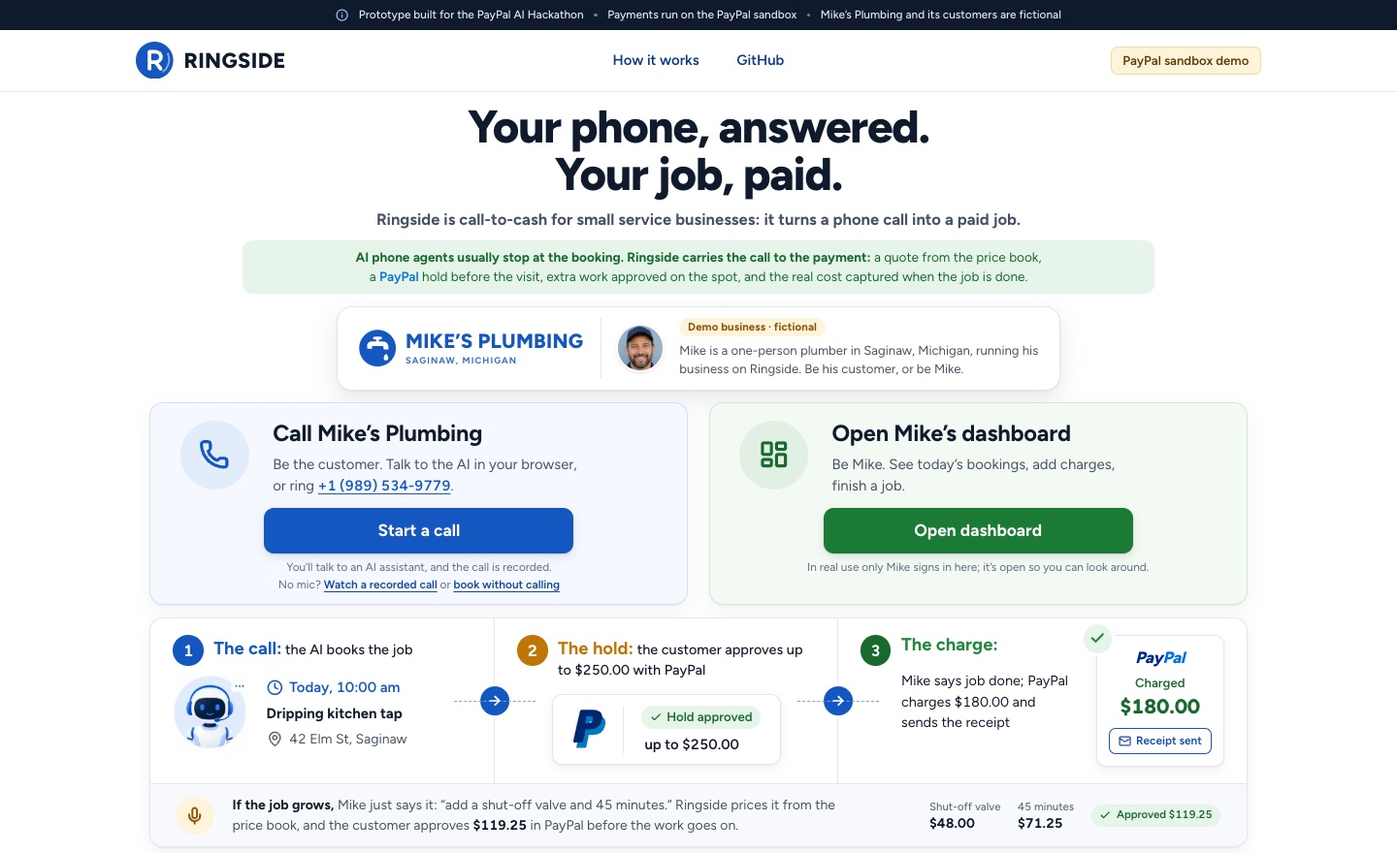
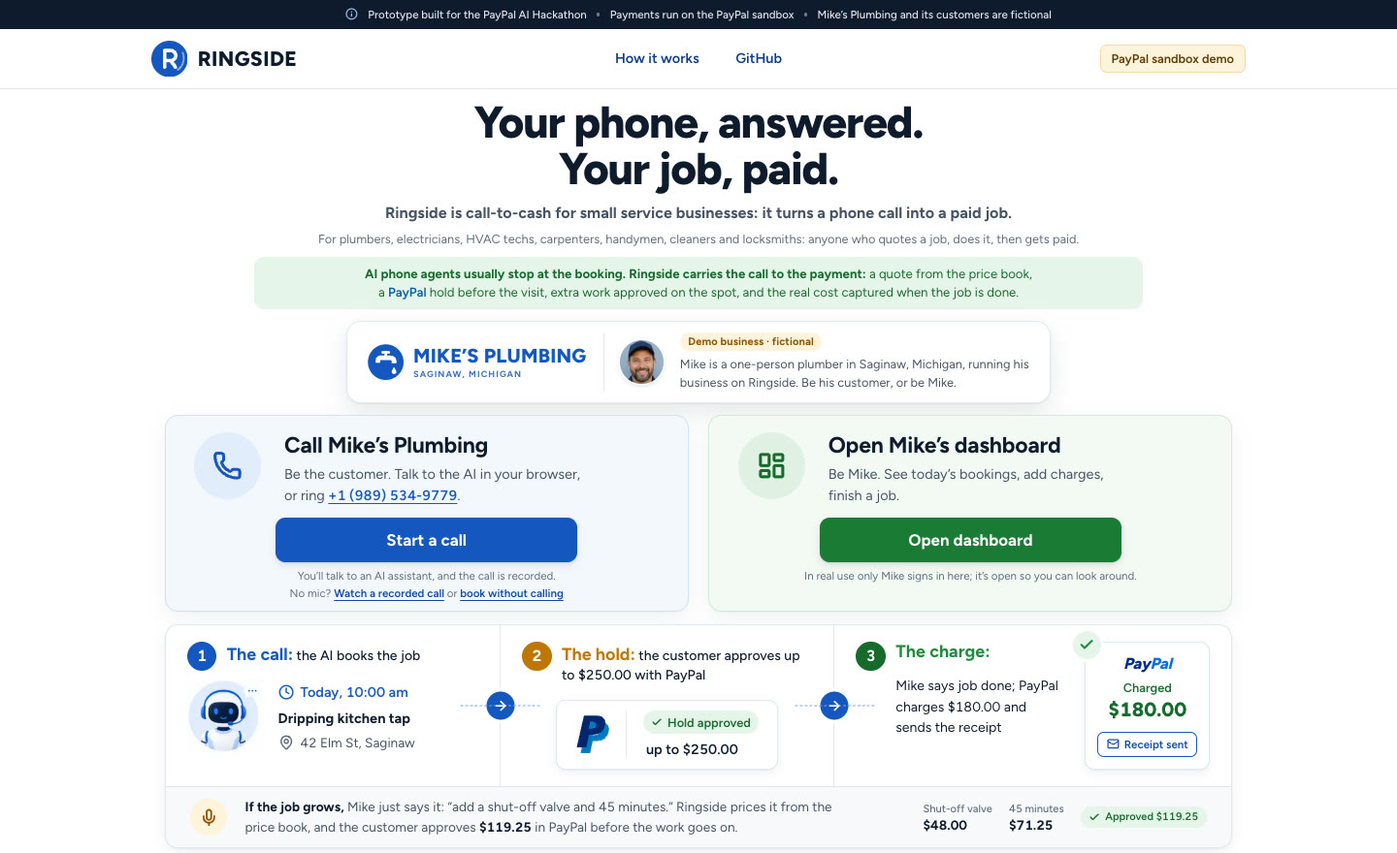
README: the demo video, the new architecture and the agent's authentication
A Watch the demo button and a Watch it section (YouTube), the architecture redrawn
as one customer with three routes in (phone through Twilio, a browser call, booking
without calling), the agent requiring authentication with tool calls carrying a
secret, the filmed end-to-end job in Real runs, and a fresh landing screenshot with
the trades Ringside serves.

diff --git a/assets/src/architecture.html b/assets/src/architecture.html
@@ -1,148 +1,103 @@
 <!doctype html>
-<html>
-<head>
-<meta charset="utf-8">
-<link rel="preconnect" href="https://fonts.googleapis.com">
-<link href="https://fonts.googleapis.com/css2?family=Figtree:wght@500;600;700;800&display=swap" rel="stylesheet">
+<html><head><meta charset="utf-8"><title>Ringside architecture</title>
+<!-- Source of assets/architecture.png. Render: headless Chrome at 1920x1080 (see README). -->
+<link rel="stylesheet" href="https://fonts.googleapis.com/css2?family=Figtree:wght@500;600;700;800&display=block">
 <style>
-  * { box-sizing: border-box; margin: 0; }
-  body { width: 1600px; height: 960px; background: #f2f5f9; color: #0f1b2d; font-family: "Figtree", system-ui, sans-serif; position: relative; overflow: hidden; }
-  h1 { position: absolute; left: 40px; top: 26px; font-size: 34px; font-weight: 800; letter-spacing: -0.02em; }
-  h1 span { color: #1557c0; }
-  .money { position: absolute; left: 40px; top: 74px; display: flex; gap: 10px; align-items: center; font-size: 16px; font-weight: 700; color: #465264; }
-  .money b { padding: 4px 12px; border-radius: 999px; background: #e6f4ea; color: #17692d; font-weight: 700; }
-  .money i { font-style: normal; color: #9aa6b6; }
-  .box { position: absolute; padding: 14px 16px; border-radius: 16px; background: #fff; border: 1px solid #e2e7ee; box-shadow: 0 1px 2px rgba(16,24,40,.05), 0 6px 16px rgba(16,24,40,.07); }
-  .box h2 { font-size: 18px; font-weight: 800; line-height: 1.2; }
-  .box p { margin-top: 4px; font-size: 13.5px; line-height: 1.4; color: #465264; }
-  .box .tag { display: inline-block; margin-top: 6px; padding: 2px 8px; border-radius: 6px; font-size: 12px; font-weight: 700; }
-  .person { background: #fff; border-color: #cfdcf3; }
-  .person h2 { color: #0b3a8a; }
-  .voice { border-color: #d7d0f5; }
-  .voice .tag { background: #efeafc; color: #4b2fa8; }
-  .app { background: linear-gradient(180deg, #0b3a8a, #1557c0); color: #fff; border: 0; }
-  .app h2 { color: #fff; font-size: 22px; }
-  .app > p { color: rgba(255,255,255,.85); }
-  .chips { display: grid; grid-template-columns: 1fr 1fr; gap: 8px; margin-top: 12px; }
-  .chip { padding: 9px 11px; border-radius: 11px; background: rgba(255,255,255,.12); border: 1px solid rgba(255,255,255,.22); font-size: 13.5px; line-height: 1.3; font-weight: 600; }
-  .chip small { display: block; font-weight: 500; opacity: .82; font-size: 12px; }
-  .paypal { border: 2px solid #1557c0; }
-  .paypal h2 { color: #003087; }
-  .paypal ul { margin: 8px 0 0; padding-left: 18px; font-size: 13.5px; line-height: 1.55; color: #0f1b2d; }
-  .paypal ul small { color: #465264; }
-  .claude .tag { background: #f6e9e1; color: #8a4a26; }
-  .infra { background: #fff; }
-  .infra .tag { background: #e9f0fc; color: #0f47a8; }
-  svg { position: absolute; inset: 0; width: 1600px; height: 960px; pointer-events: none; }
-  .lbl { position: absolute; font-size: 12px; font-weight: 700; color: #5f6b7c; background: #f2f5f9; padding: 1px 6px; border-radius: 6px; }
-</style>
-</head>
+  * { box-sizing: border-box; margin: 0; padding: 0; }
+  html, body { width: 1920px; height: 1080px; overflow: hidden; background: #071a3d; font-family: "Figtree", sans-serif; color: #fff; }
+  #ground { position: absolute; inset: 0; background: radial-gradient(1300px 900px at 50% 48%, #11377f 0%, #0c2a63 48%, #071a3d 100%); }
+  #title { position: absolute; left: 0; right: 0; top: 110px; text-align: center; font-size: 24px; font-weight: 800; letter-spacing: .16em; color: #a9c1ee; }
+  .node { position: absolute; width: 220px; height: 190px; border-radius: 26px; background: #fff; color: #0f1b2d; display: flex; flex-direction: column;
+    align-items: center; justify-content: center; gap: 10px; box-shadow: 0 30px 70px rgba(0,0,0,.38); transform-origin: 50% 50%; }
+  .node img, .node svg { width: 76px; height: 76px; }
+  .node b { font-size: 32px; font-weight: 800; } .node small { font-size: 18px; color: #4f5968; font-weight: 600; text-align: center; padding: 0 12px; }
+  svg#wires { position: absolute; inset: 0; }
+  .lbl { font: 700 18px "Figtree", sans-serif; letter-spacing: .02em; }
+  #sdk { position: absolute; left: 1320px; top: 312px; transform: translateX(-50%); display: flex; align-items: center; gap: 8px; padding: 6px 14px; border-radius: 999px;
+    background: rgba(255,255,255,.12); border: 1px solid rgba(255,255,255,.22); font-size: 18px; font-weight: 700; color: #dbe6fb; white-space: nowrap; }
+  #sdk img { width: 18px; height: 18px; filter: brightness(0) invert(1); }
+  #inside { position: absolute; left: 130px; top: 790px; display: flex; flex-wrap: wrap; align-items: center; gap: 12px; width: 980px; }
+  #inside span { font-size: 18px; font-weight: 800; letter-spacing: .14em; text-transform: uppercase; color: #a9c1ee; margin-right: 6px; }
+  #inside i { display: flex; align-items: center; gap: 8px; padding: 7px 14px; border-radius: 999px; background: rgba(255,255,255,.1); border: 1px solid rgba(255,255,255,.2);
+    font-style: normal; font-size: 18px; font-weight: 700; color: #e6eefc; white-space: nowrap; }
+  #inside img { width: 20px; height: 20px; object-fit: contain; }
+  #banner { position: absolute; left: 50%; bottom: 70px; transform: translateX(-50%); padding: 16px 36px; border-radius: 999px; background: #f2a93b; color: #2b1a00; font-size: 38px; font-weight: 800; white-space: nowrap; }
+</style></head>
 <body>
-  <h1>How <span>Ringside</span> works</h1>
-  <div class="money">The money moves four times, each after a person says yes:
-    <b>Hold at booking</b><i>→</i><b>Extra work approved</b><i>→</i><b>Real cost captured</b><i>→</i><b>Receipt</b>
-  </div>
-
-  <svg viewBox="0 0 1600 960">
-    <defs>
-      <marker id="a" viewBox="0 0 10 10" refX="9" refY="5" markerWidth="7" markerHeight="7" orient="auto-start-reverse"><path d="M0 0 10 5 0 10z" fill="#7d8aa0"/></marker>
-      <marker id="p" viewBox="0 0 10 10" refX="9" refY="5" markerWidth="7" markerHeight="7" orient="auto-start-reverse"><path d="M0 0 10 5 0 10z" fill="#1557c0"/></marker>
-    </defs>
-    <!-- Every connector is a straight run or a right-angle join; boxes are placed so lines meet them square-on. -->
-    <g fill="none" stroke="#7d8aa0" stroke-width="2" stroke-linejoin="round">
-      <path d="M270 205 H300 M300 170 V294"/>
-      <path d="M300 170 H330" marker-end="url(#a)"/>
-      <path d="M300 294 H330" marker-end="url(#a)"/>
-      <path d="M580 170 H610 M580 294 H610 M610 170 V294"/>
-      <path d="M610 232 H640" marker-end="url(#a)"/>
-      <path d="M840 282 V400" marker-start="url(#a)" marker-end="url(#a)"/>
-      <path d="M270 540 H640" marker-start="url(#a)" marker-end="url(#a)"/>
-      <path d="M270 725 H640" marker-start="url(#a)" marker-end="url(#a)"/>
-      <path d="M1220 682 H1270" marker-end="url(#a)"/>
-      <path d="M1220 806 H1270" marker-end="url(#a)"/>
-      <path d="M800 820 V850" marker-end="url(#a)"/>
-      <path d="M1090 820 V850" marker-end="url(#a)"/>
-    </g>
-    <g fill="none" stroke="#1557c0" stroke-width="3">
-      <path d="M1220 470 H1270" marker-start="url(#p)" marker-end="url(#p)"/>
-    </g>
-  </svg>
-
-  <div class="box person" style="left:40px; top:150px; width:230px; height:110px;">
-    <h2>Customer</h2>
-    <p>Calls the business with a problem: a dripping tap, a running toilet.</p>
-  </div>
-  <div class="box person" style="left:40px; top:470px; width:230px; height:140px;">
-    <h2>Customer’s phone</h2>
-    <p>Opens the job page from the email or a QR code and approves in PayPal.</p>
-  </div>
-  <div class="box person" style="left:40px; top:660px; width:230px; height:130px;">
-    <h2>The owner</h2>
-    <p>Mike’s dashboard on his phone (an installable app with notifications) and on his desk.</p>
-  </div>
-
-  <div class="box" style="left:330px; top:130px; width:250px; height:80px;">
-    <h2>Twilio number</h2>
-    <p>The business line, connected straight to the agent.</p>
-  </div>
-  <div class="box" style="left:330px; top:240px; width:250px; height:108px;">
-    <h2>Browser call</h2>
-    <p><code>/call</code> over WebRTC with <code>@elevenlabs/react</code>, or Book without calling.</p>
-  </div>
-
-  <div class="box voice" style="left:640px; top:130px; width:400px; height:152px;">
-    <h2>ElevenLabs Agent</h2>
-    <p>Speaks as the business’s AI assistant, says it is AI, quotes, books and sends the PayPal link only after a yes. Calls end at six minutes with a goodbye.</p>
-    <span class="tag">LLM GLM 5.2 · voice Chris</span>
-  </div>
-  <span class="lbl" style="left:852px; top:332px;">10 server tools (webhooks, shared secret)</span>
-  <span class="lbl" style="left:300px; top:516px;">job page: approves in PayPal</span>
-  <span class="lbl" style="left:300px; top:701px;">dashboard and phone alerts</span>
-
-  <div class="box app" style="left:640px; top:400px; width:580px; height:420px;">
-    <h2>Ringside on Render</h2>
-    <p>Next.js 16 · TypeScript · one demo session per visitor · integer cents · a job state machine</p>
-    <div class="chips">
-      <div class="chip">Agent tools<small>price book, service area, slots, quote, booking, hold link</small></div>
-      <div class="chip">Price book &amp; rate card<small>every price checked in code</small></div>
-      <div class="chip">Holds<small>authorize after the customer approves</small></div>
-      <div class="chip">Change orders<small>spoken or picked, a second payment</small></div>
-      <div class="chip">Job done<small>capture the real cost, never above the hold; cancel voids</small></div>
-      <div class="chip">Receipts &amp; close-out<small>PayPal invoice marked paid</small></div>
-      <div class="chip">Customer page <code>/j/&lt;code&gt;</code><small>PayPal buttons, test card for judges</small></div>
-      <div class="chip">Mike’s app &amp; Books<small>installable dashboard; AG Studio + Ask your books</small></div>
-    </div>
-  </div>
-
-  <div class="box infra" style="left:660px; top:850px; width:280px; padding:10px 14px;">
-    <h2 style="font-size:16px;">Render Postgres</h2>
-    <p>Jobs, calls, payments, events</p>
-  </div>
-  <div class="box infra" style="left:960px; top:850px; width:260px; padding:10px 14px;">
-    <h2 style="font-size:16px;">Render Workflows</h2>
-    <p>Close-out, safe to replay</p>
-  </div>
-
-  <div class="box paypal" style="left:1270px; top:360px; width:290px;">
-    <h2>PayPal (sandbox)</h2>
-    <ul>
-      <li>Orders v2: <b>AUTHORIZE</b> hold, <b>CAPTURE</b> extra work <small>(server SDK by APIMatic)</small></li>
-      <li>Payments v2: capture the hold, void</li>
-      <li>Invoicing v2: the receipt</li>
-      <li>Webhooks, verified</li>
-      <li>JS SDK buttons + guest card</li>
-    </ul>
-    <span class="tag" style="background:#e9f0fc;color:#0f47a8;">PayPal-Request-Id on every POST</span>
-  </div>
-
-  <div class="box claude" style="left:1270px; top:612px; width:290px;">
-    <h2>Claude (Anthropic API)</h2>
-    <p><b>Sonnet 5.5</b>: the owner’s spoken extra work → priced lines.<br><b>Haiku 5.5</b>: Ask your books; a described problem → a price-book job.</p>
-    <span class="tag">structured output · prices from the book</span>
-  </div>
-  <div class="box infra" style="left:1270px; top:782px; width:290px; padding:10px 14px;">
-    <h2 style="font-size:16px;">Resend · Web push</h2>
-    <p>Emails the customer at each step; buzzes Mike’s phone</p>
-  </div>
-</body>
-</html>
+<div id="ground"></div>
+<div id="title">HOW IT WORKS</div>
+<svg id="wires" viewBox="0 0 1920 1080"><defs id="defs"></defs><g id="edges"></g></svg>
+<div id="nodes"></div>
+<div id="sdk"><img src="../logos/paypal.svg">PayPal server SDK · APIMatic</div>
+<div id="inside"><span>Inside Ringside</span><i><img src="../logos/claude.svg">Claude · prices extra work, matches web bookings</i><i><img src="../logos/aggrid.png">AG Grid · Mike’s books</i><i>Postgres · Resend email</i></div>
+<div id="banner">No money moves without a person saying yes</div>
+<script>
+const MARK = `<svg viewBox="0 0 48 48" fill="none"><circle cx="24" cy="24" r="24" fill="#1557c0"/><path d="M41.2 15.5a19 19 0 0 1-6.4 23.1" stroke="#fff" stroke-opacity="0.5" stroke-width="2.4" stroke-linecap="round"/><path d="M17.5 35V13h8.2a6.6 6.6 0 0 1 0 13.2h-8.2M25.4 26.2 32 35" stroke="#fff" stroke-width="4.6" stroke-linecap="round" stroke-linejoin="round"/></svg>`;
+const PERSON = `<svg viewBox="0 0 24 24" fill="none" stroke="#1557c0" stroke-width="2" stroke-linecap="round"><circle cx="12" cy="8" r="4"/><path d="M4 21c0-4.4 3.6-7 8-7s8 2.6 8 7"/></svg>`;
+const BROWSER = `<svg viewBox="0 0 24 24" fill="none" stroke="#1557c0" stroke-width="2" stroke-linecap="round"><rect x="2.5" y="4" width="19" height="16" rx="2.5"/><path d="M2.5 9h19M6 6.6h.01M8.5 6.6h.01"/></svg>`;
+const PHONE = `<svg viewBox="0 0 24 24" fill="none" stroke="#1557c0" stroke-width="2"><rect x="6" y="2" width="12" height="20" rx="3"/><circle cx="12" cy="18" r="1"/></svg>`;
+// cards in one row, evenly spaced (220 wide, 140 apart), Render below Ringside. [id, x, y, icon, name, sub, appears at (s)]
+const NODES = [
+  ["caller", 130, 360, PERSON, "Customer", "phone or browser", 0.8],
+  ["twilio", 490, 360, `<img src="../logos/twilio.svg">`, "Twilio", "the phone number", 2.4],
+  ["eleven", 850, 360, `<img src="../logos/elevenlabs.svg">`, "ElevenLabs", "voice agent", 3.9],
+  ["ringside", 1210, 360, MARK, "Ringside", "tools · rate card", 7.6],
+  ["paypal", 1570, 360, `<img src="../logos/paypal.svg">`, "PayPal", "hold · capture", 10.8],
+  ["render", 1210, 700, `<img src="../logos/render.svg">`, "Render", "workflow · receipt", 15.5],
+];
+// dotted connectors that draw themselves in: [path, colour, label, label x, label y, starts drawing (s), takes (s)]
+const EDGES = [
+  ["M362 455 L478 455", "#8fb6ff", "phone", 420, 432, 1.4, 1.0],
+  ["M722 455 L838 455", "#8fb6ff", "", 0, 0, 3.0, 0.9],
+  ["M300 562 L300 640 L960 640 L960 562", "#8fb6ff", "browser call", 630, 623, 3.1, 1.3],
+  ["M180 562 L180 720 L1150 720 L1150 505 L1198 505", "#c9b8ff", "book without calling", 660, 703, 6.8, 1.6],
+  ["M1082 455 L1198 455", "#8fb6ff", "tool calls", 1140, 432, 8.4, 1.0],
+  ["M1442 430 L1558 430", "#8fb6ff", "orders", 1500, 407, 10.3, 1.0],
+  ["M1558 482 L1442 482", "#f2a93b", "webhooks", 1500, 514, 13.3, 1.0],
+  ["M1320 562 L1320 688", "#8fb6ff", "close-out", 1384, 630, 14.9, 1.0],
+  ["M1442 795 C1690 795 1690 680 1690 562", "#3fbf6a", "capture · receipt", 1580, 838, 16.3, 1.4],
+];
+window.duration = 21.6;
+const $ = (id) => document.getElementById(id);
+const clamp = (x) => Math.max(0, Math.min(1, x));
+const ease = (x) => { x = clamp(x); return x < .5 ? 4 * x * x * x : 1 - Math.pow(-2 * x + 2, 3) / 2; };
+const ramp = (t, a, d) => ease((t - a) / d);
+const NS = "http://www.w3.org/2000/svg";
+const nodes = NODES.map(([id, x, y, icon, name, sub, at]) => {
+  const el = document.createElement("div"); el.className = "node"; el.style.left = x + "px"; el.style.top = y + "px";
+  el.innerHTML = `${icon}<b>${name}</b><small>${sub}</small>`; $("nodes").appendChild(el); return [el, at];
+});
+const mk = (tag, attrs, parent) => { const e = document.createElementNS(NS, tag); for (const k in attrs) e.setAttribute(k, attrs[k]); parent.appendChild(e); return e; };
+const edges = EDGES.map(([d, col, label, lx, ly, at, dur], i) => {
+  // the reveal: a solid copy of the path, drawn with a dash offset, used as a mask over the dotted line
+  const m = mk("mask", { id: `m${i}`, maskUnits: "userSpaceOnUse", x: 0, y: 0, width: 1920, height: 1080 }, $("defs"));
+  const rev = mk("path", { d, fill: "none", stroke: "#fff", "stroke-width": 16, "stroke-linecap": "round" }, m);
+  const len = rev.getTotalLength(); rev.style.strokeDasharray = `${len} ${len}`;
+  const dotted = mk("path", { d, fill: "none", stroke: col, "stroke-width": 5, "stroke-linecap": "round", "stroke-dasharray": "0.1 13", mask: `url(#m${i})` }, $("edges"));
+  // the arrowhead, placed at the end along the path's direction
+  const a = rev.getPointAtLength(len), b = rev.getPointAtLength(len - 6), ang = Math.atan2(a.y - b.y, a.x - b.x) * 180 / Math.PI;
+  const head = mk("path", { d: "M-2 -9 L12 0 L-2 9 Z", fill: col, transform: `translate(${a.x} ${a.y}) rotate(${ang})` }, $("edges"));
+  const tx = label ? mk("text", { class: "lbl", x: lx, y: ly, "text-anchor": "middle", fill: col === "#f2a93b" ? "#f2c27b" : col === "#c9b8ff" ? "#ddd2ff" : "#cddcf8" }, $("edges")) : null;
+  if (tx) tx.textContent = label;
+  return { rev, dotted, head, tx, len, at, dur };
+});
+window.ready = Promise.all([document.fonts.ready, ...[...document.images].map((im) => im.decode().catch(() => {}))]);
+window.seek = (t) => {
+  $("title").style.opacity = ramp(t, 0.2, 0.6);
+  nodes.forEach(([el, at]) => { const p = ramp(t, at, 0.6); el.style.opacity = p; el.style.transform = `translateY(${(1 - p) * 14}px) scale(${0.94 + 0.06 * p})`; });
+  edges.forEach(({ rev, dotted, head, tx, len, at, dur }) => {
+    const draw = ramp(t, at, dur);
+    rev.style.strokeDashoffset = len * (1 - draw);
+    dotted.style.opacity = draw > 0 ? 1 : 0;
+    dotted.style.strokeDashoffset = -((t - at) * 22);   // the dots keep drifting forward once drawn
+    const h = ramp(t, at + dur - 0.15, 0.3); head.style.opacity = h;
+    if (tx) tx.style.opacity = ramp(t, at + dur * 0.5, 0.5);
+  });
+  $("sdk").style.opacity = ramp(t, 11.2, 0.6);
+  $("inside").style.opacity = ramp(t, 9.0, 0.6);
+  const b = ramp(t, 18.3, 0.6); $("banner").style.opacity = b; $("banner").style.transform = `translate(-50%, ${(1 - b) * 18}px)`;
+};
+window.sheetTimes = [{ t: 2.2, label: "drawing" }, { t: 4.6, label: "agent" }, { t: 9.6, label: "PayPal" }, { t: 12.2, label: "webhooks" }, { t: 15.8, label: "capture" }, { t: 19.5, label: "rule" }];
+// README still: the diagram's finished state (the same page animates in the demo video)
+window.ready.then(() => window.seek(30));
+</script></body></html>

diff --git a/README.md b/README.md
@@ -4,6 +4,7 @@
 
 # Ringside
 
+[![Watch the demo](https://img.shields.io/badge/Watch_the_demo-2%3A59-c8281c?style=for-the-badge&logo=youtube&logoColor=white)](https://youtu.be/DsTQNwpYstY)
 [![Live demo](https://img.shields.io/badge/Live_demo-ringside--4bup.onrender.com-1557c0?style=for-the-badge&logo=render&logoColor=white)](https://ringside-4bup.onrender.com)
 [![Call Mike's Plumbing](https://img.shields.io/badge/Try_it-call_in_the_browser-1f8a3b?style=for-the-badge&logo=googlechrome&logoColor=white)](https://ringside-4bup.onrender.com/call)
 [![Mike's dashboard](https://img.shields.io/badge/Open-Mike's_dashboard-0b3a8a?style=for-the-badge&logo=googlehome&logoColor=white)](https://ringside-4bup.onrender.com/dashboard)
@@ -88,12 +89,19 @@ real cost when the work is done.
 Michigan. Its customers, jobs and calls are fictional too. Ringside is a prototype built for the PayPal AI Hackathon and
 runs on the PayPal sandbox.
 
-<img src="assets/screens/landing.jpg" width="100%" alt="Ringside's landing page: 'Ringside is call-to-cash for small service businesses: it turns a phone call into a paid job', how it differs from AI phone agents that stop at the booking, then the demo business, Mike's Plumbing, with two doors: call it as a customer, or open the owner's dashboard; below, the call, the hold, the charge and the change order on one job">
+<img src="assets/screens/landing.jpg" width="100%" alt="Ringside's landing page: 'Ringside is call-to-cash for small service businesses: it turns a phone call into a paid job', the trades it serves (plumbers, electricians, HVAC techs, carpenters, handymen, cleaners and locksmiths), how it differs from AI phone agents that stop at the booking, then the demo business, Mike's Plumbing, with two doors: call it as a customer, or open the owner's dashboard; below, the call, the hold, the charge and the change order on one job">
 
 **For the judges:** open the [live demo](https://ringside-4bup.onrender.com) and try Ringside as the demo business's
 customer: call Mike's Plumbing in the browser or on **[+1 (989) 534-9779](tel:+19895349779)**, then approve the hold with
 PayPal's sandbox test card `4032 0304 2122 9932` (expiry 05/27, CVC 379; no PayPal account needed). Then open the
 owner's dashboard to add charges and finish the job. No mic? **Book without calling** on the call page runs the same quote and PayPal hold from a short form, and a recorded call shows the conversation.
+
+## Watch it
+
+[![Ringside demo video: a real phone call becomes a paid job, with a PayPal hold, extra work approved on site and the real cost captured (2:59)](assets/screens/video.jpg)](https://youtu.be/DsTQNwpYstY)
+
+A real phone call to the demo line, the customer approving the PayPal hold while still on the call, Mike adding extra
+work from his phone, the customer paying it, and the real cost captured at job done, in 2:59.
 
 ## How it's different
 
@@ -187,9 +195,12 @@ in code.
 
 ## Architecture
 
-<img src="assets/architecture.png" width="100%" alt="Ringside's architecture: a customer calls the Twilio number or the browser call page; the ElevenLabs agent (GLM 5.2) calls Ringside's ten server tools on Render; Ringside holds, captures and voids through PayPal Orders and Payments (server SDK), sends the receipt with Invoicing and verifies webhooks; Claude Sonnet 5.5 parses spoken change orders and Haiku 5.5 answers Ask your books and matches a typed problem to the price book; Postgres and Render Workflows run underneath; the customer approves in PayPal on the job page and the owner works from the dashboard; Resend and web push carry links and notifications">
+<img src="assets/architecture.png" width="100%" alt="Ringside's architecture: one customer, on the phone or in the browser, with three routes in: by phone through the Twilio number to the ElevenLabs voice agent, a browser call straight to the agent, or booking without calling straight to Ringside. The agent makes tool calls to Ringside (tools and rate card, using PayPal's server SDK generated by APIMatic); Ringside creates PayPal orders and PayPal's webhooks come back to it; at job done Ringside hands the close-out to a Render workflow, which captures the payment and sends the receipt. Inside Ringside: Claude prices extra work and matches web bookings, AG Grid runs Mike's books, Postgres and Resend email. No money moves without a person saying yes">
 
-The diagram's source is [`assets/src/architecture.html`](assets/src/architecture.html), rendered with headless Chrome.
+A customer reaches Ringside three ways: a phone call through Twilio to the ElevenLabs agent, a call in the browser to
+the same agent, or **Book without calling**, which goes straight to Ringside. The agent only acts through Ringside's
+tools, every PayPal call goes through Ringside, and the close-out runs on Render Workflows. The diagram's source is
+[`assets/src/architecture.html`](assets/src/architecture.html), the same page that animates in the demo video.
 
 ## Real runs
 
@@ -209,6 +220,7 @@ here is mocked.
 | Send the receipt invoice | created, sent and marked paid in 5.9 s; a replay made one GET and sent nothing twice | `scripts/sandbox/receipt-flow.ts` |
 | A whole job on the live site | A browser call booked a $99.00 service visit and the customer approved the hold in PayPal; $22.00 of extra work was approved and captured 1 s after approval, the $99.00 hold was captured at job done, and the receipt invoice was marked paid 13 s later. PayPal sent `CHECKOUT.ORDER.APPROVED` twice, `PAYMENT.CAPTURE.COMPLETED` twice and `INVOICING.INVOICE.PAID` twice | the 3 min 56 s call's ElevenLabs log and PayPal's sandbox webhook event log |
 | Close-out on Render Workflows | Two `closeJob` runs in production (2026-11-05 and 11-06), each sending the receipt and closing the job: both completed on the first attempt, in 5.4 s and 5.3 s | Render's task-run history for the `ringside-close-out` workflow |
+| A whole job, filmed for the demo video (2026-11-07) | A real phone call: the agent quoted a faucet leak repair from the price book, the caller approved the $250.00 PayPal hold while still on the call, and the agent confirmed the visit only after `check_hold` came back authorized. On site, $35.00 of extra work was sent from Mike's phone, approved and paid as its own payment; at job done $125.00 was captured and the other $125.00 of the hold released; the receipt email ($160.00 in all) went out from the Render Workflows close-out | the 3 min 40 s call's ElevenLabs log, the job's PayPal events and Resend's delivery log |
 | A real phone call to the agent | answered with the AI disclosure; replies 0.5–0.65 s after the caller stops (1.3 s at most) over 99 s, on the first test agent's model | a live call to the Twilio number |
 
 ## The tech, part by part
@@ -216,7 +228,7 @@ here is mocked.
 | Part | Built with | What it does |
 |---|---|---|
 | Phone line | Twilio US number, imported into ElevenLabs | Callers dial the business and land straight on the agent ([`scripts/gates/setup-voice.mjs`](scripts/gates/setup-voice.mjs)) |
-| Voice agent | ElevenLabs Agents; LLM GLM 5.2 (`glm-52`) with medium reasoning, hosted by ElevenLabs; voice "Chris"; calls capped at 6 minutes | Answers as Mike's AI assistant; its ten server tools read the price book, check the service area, find open windows, save the quote, book it and send the PayPal link only after a yes. Near the time limit every tool reply tells it to wrap up ([`src/lib/agent-tools.ts`](src/lib/agent-tools.ts), [`scripts/agent/configure.mjs`](scripts/agent/configure.mjs)) |
+| Voice agent | ElevenLabs Agents; LLM GLM 5.2 (`glm-52`) with medium reasoning, hosted by ElevenLabs; voice "Chris"; calls capped at 6 minutes | Answers as Mike's AI assistant. Conversations start only through Ringside (the agent requires authentication: the browser call uses a short-lived token from the server, the phone line comes through Twilio), and every tool call carries a shared secret. Its ten server tools read the price book, check the service area, find open windows, save the quote, book it and send the PayPal link only after a yes. Near the time limit every tool reply tells it to wrap up ([`src/lib/agent-tools.ts`](src/lib/agent-tools.ts), [`scripts/agent/configure.mjs`](scripts/agent/configure.mjs)) |
 | Browser call | `@elevenlabs/react` over WebRTC, a server-issued conversation token | The same agent in the browser with a live transcript and a booking card that fills in; the conversation is registered to the visitor's session before the first tool call; a recorded call, and **Book without calling**: describe the problem in your own words and Claude Haiku 5.5 matches it to a job in the price book (or pick it yourself), then the same read-back and the agent's own quote, booking and hold tools ([`src/app/call/`](src/app/call/page.tsx)) |
 | Prices | Mike's price book (125 jobs as USD ranges) and a rate card of add-ons, money in integer cents | A quote holds the top of its range; extra work is parts and labour in 15-minute blocks of $23.75, or a whole job at Mike's price inside its range ([`src/lib/price-book.ts`](src/lib/price-book.ts), [`src/lib/rate-card.ts`](src/lib/rate-card.ts)) |
 | Service area | The Saginaw Tri-Cities by ZIP and city | Callers outside it get no booking and no payment ([`src/lib/service-area.ts`](src/lib/service-area.ts)) |
